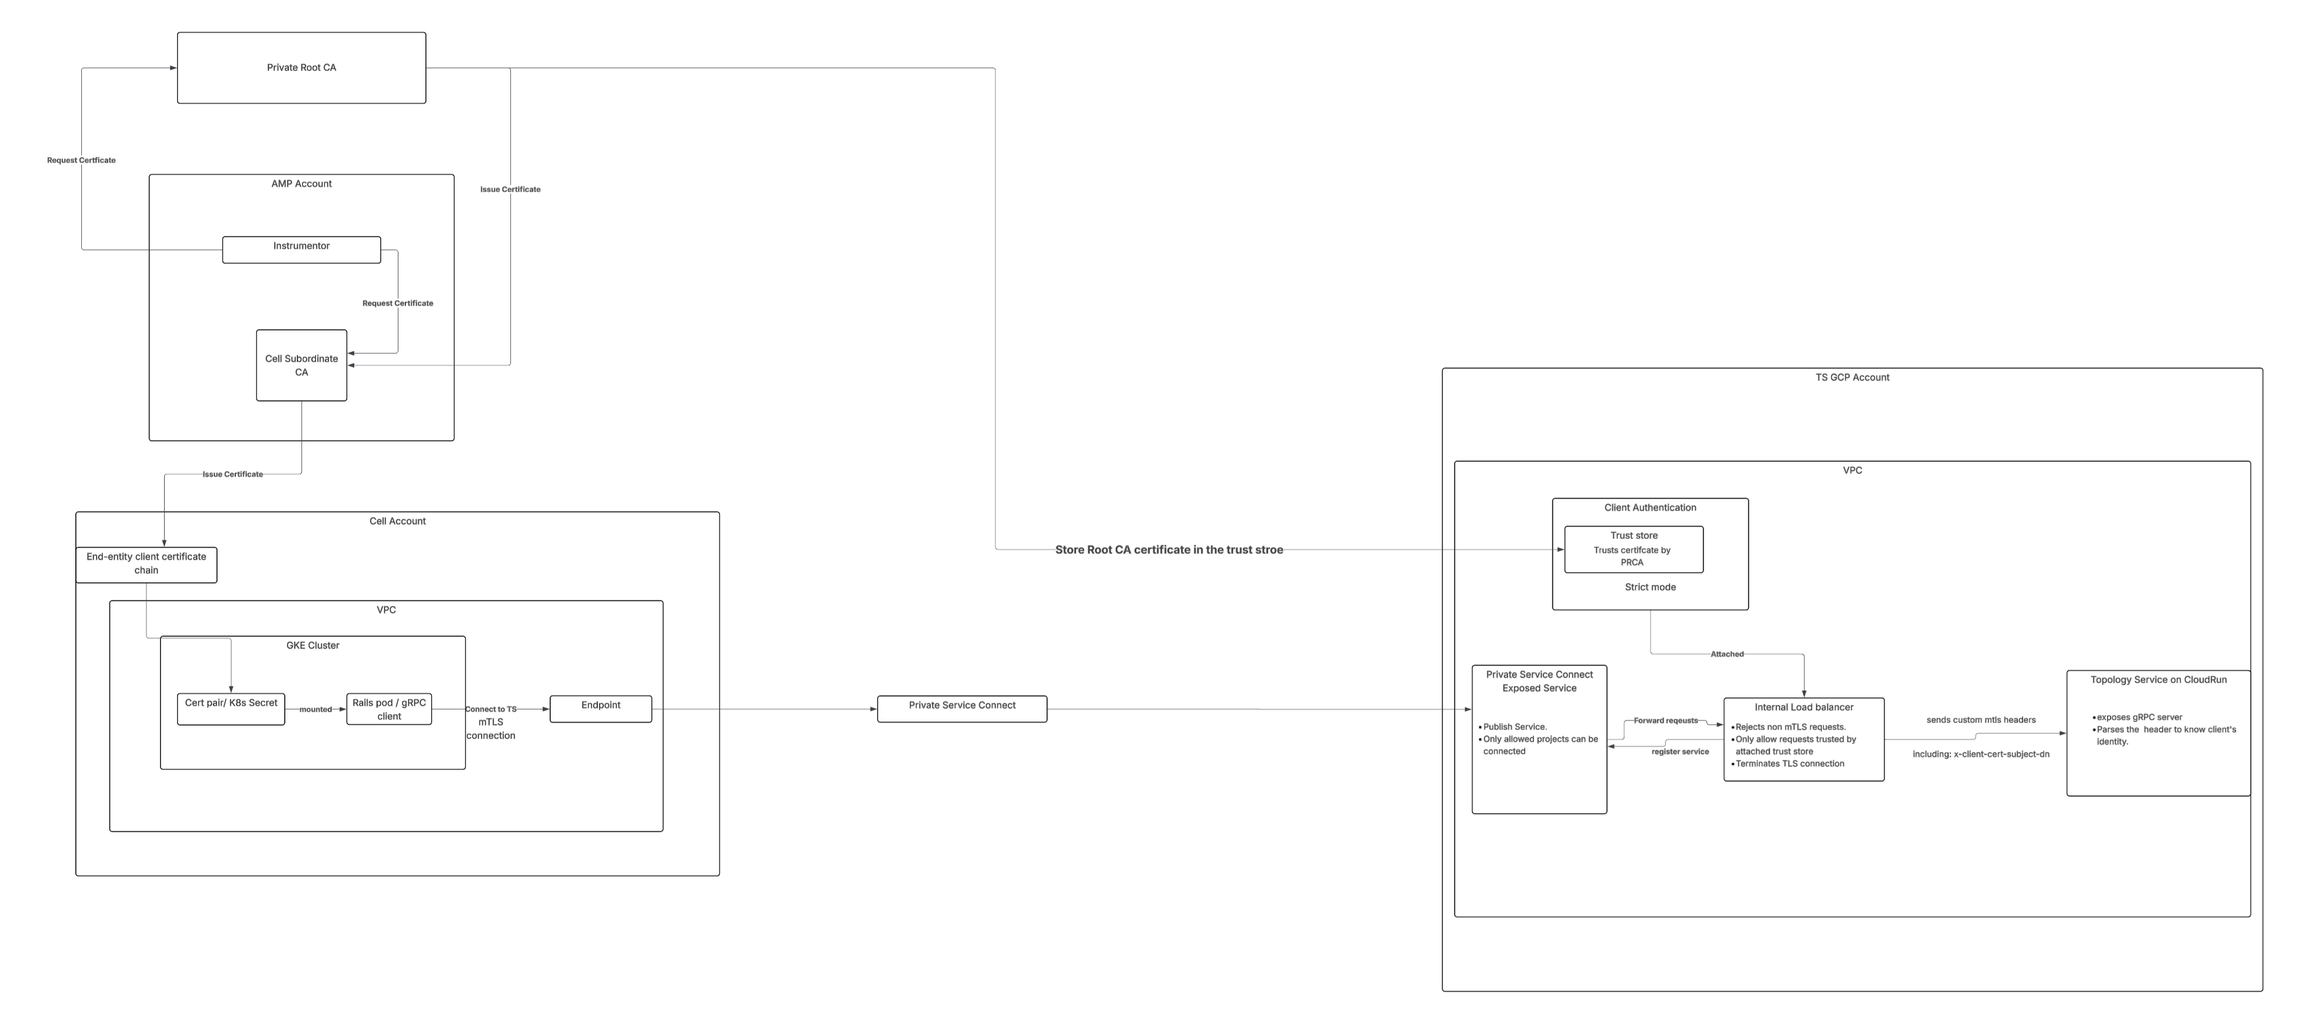
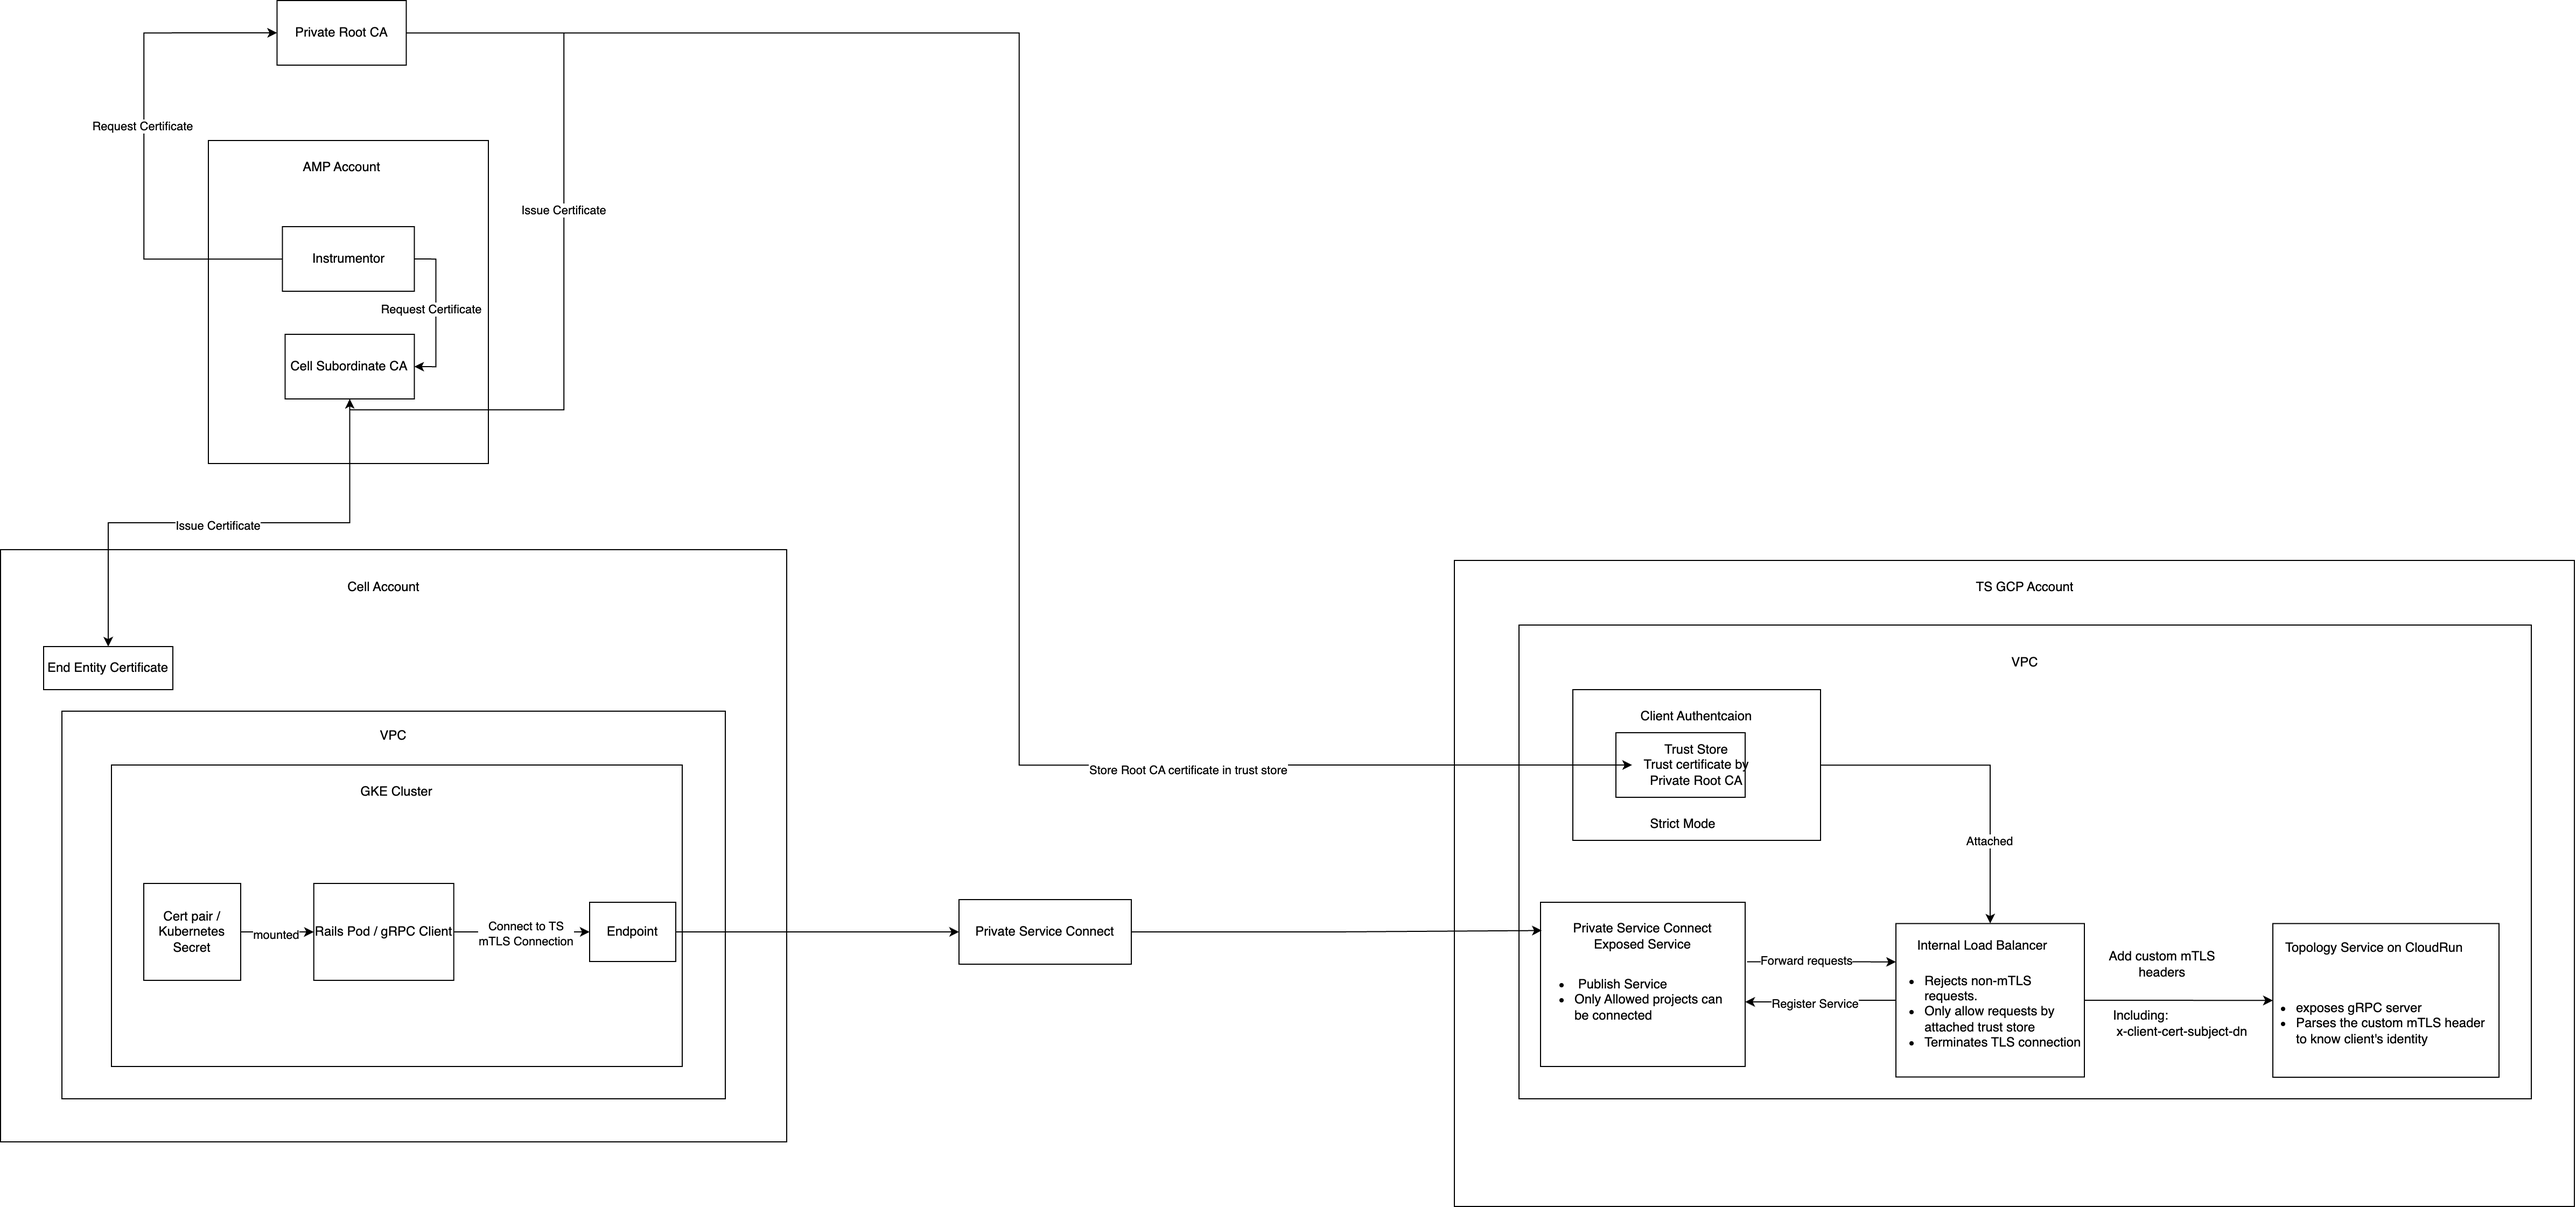
switch the image to be from draw.io, remove PSC abbr, update to sequenceDiagram, other clarification

diff --git a/content/handbook/engineering/architecture/design-documents/cells/mutual_authentication_between_cell_services.md b/content/handbook/engineering/architecture/design-documents/cells/mutual_authentication_between_cell_services.md
@@ -93,22 +93,20 @@ The external service host requires these changes:
 - Deploy the service behind an [Internal Load Balancer](https://cloud.google.com/load-balancing/docs/l7-internal) to ensure the service is not publicly accessible
 - Configure [mTLS Client Authentication on the Load Balancer](https://cloud.google.com/load-balancing/docs/mtls#validation-steps)
   - Upload the Private Root CA Certificate to the [Trust Config to enforce authenticated access only](https://cloud.google.com/load-balancing/docs/mtls#architecture)
-- Configure Private Service Connect (PSC) with the Load Balancer as a backend
-- Grant access permissions to client projects for connecting to the PSC endpoint
+- Configure [Private Service Connect] with the Load Balancer as a backend
+- Grant access permissions to client projects for connecting to the [Private Service Connect] endpoint
 
 #### Client/Consumer Configuration
 
 The service consuming the external API requires these changes:
 
-- Connect to the PSC endpoint using the VPC where the client service is deployed
+- Connect to the [Private Service Connect] endpoint using the VPC where the client service is deployed
 - Mount the certificate/key pair in the client application
-- Update client code to establish mTLS connections through the PSC endpoint
+- Update client code to establish mTLS connections through the [Private Service Connect] endpoint
 
 The diagram below illustrates the complete request flow between a Pod in a Cell and an external service, including the supporting infrastructure:
 
 ![diagram showing how a Pod in Cell would be communication with outside Cell service](/images/engineering/architecture/design-documents/cells/diagrams/mtls-request-flow.png)
-
-[`source`](https://lucid.app/lucidchart/d2aff2f6-639b-44f2-a06b-6fbed225d254/edit?viewport_loc=-290%2C-378%2C5311%2C2450%2C0_0&invitationId=inv_21038e17-917c-40a7-a423-c563ee0db347)
 
 For detailed implementation examples and proof-of-concept documentation of this architecture, refer to: https://gitlab.com/gitlab-org/gitlab/-/issues/468640.
 
@@ -186,7 +184,7 @@ Source: [mTLS POC client code](https://gitlab.com/gitlab-com/gl-infra/cells/mtls
 Authorization in our mTLS implementation occurs after successful authentication and relies on client identity information:
 
 - **Certificate-Based Identity**: After authenticating the client connection, the server extracts identity information from the client's certificate for authorization decisions.
-- **GCP LoadBalancer Headers**: We leverage [custom mTLS headers](https://cloud.google.com/load-balancing/docs/mtls#custom-mtls-headers) passed by GCP LoadBalancer to the backend service, which contain pre-extracted certificate information.
+- **GCP LoadBalancer Headers**: We leverage [custom mTLS headers](https://cloud.google.com/load-balancing/docs/https/custom-headers#mtls-variables) passed by GCP LoadBalancer to the backend service, which contain pre-extracted certificate information.
 - **Header Processing**: The server extracts these headers from incoming requests to determine the client's identity and permissions without needing to re-parse the certificate.
 - **Access Control Enforcement**: Based on the extracted identity (typically the Common Name), the server determines whether the client is authorized to access the requested resource.
 
@@ -244,31 +242,45 @@ Source: [mTLS Server Code](https://gitlab.com/gitlab-com/gl-infra/cells/mtls_poc
 
 ### DNS Resolution for mTLS Server Communication
 
-For mTLS to function correctly, clients must reach the server using the DNS name present in the server certificate's Subject Alternative Name (SAN) field. In our Cell architecture with Private Service Connect (PSC), this presents a unique challenge as each Cell may have a different IP address for the same service.
+For mTLS to function correctly, clients must reach the server using the DNS name present in the server certificate's Subject Alternative Name (SAN) field. In our Cell architecture with [Private Service Connect], this presents a unique challenge as each Cell may have a different IP address for the same service.
 
 #### Implementation Details
 
 To ensure consistent DNS resolution across all Cells while maintaining proper certificate validation, we will implement the following approach:
 
-````mermaid
-graph TD
-    A[Client in Cell] --> B[KubeDNS]
-    B --> C[CloudDNS Private Zone]
-    C --> D[Cell-specific PSC IP]
-    D --> E[Internal Load Balancer]
-    E --> F[Server Service]
-````
+```mermaid
+sequenceDiagram
+    participant Client as Client in Cell
+    participant KubeDNS as KubeDNS
+    participant CloudDNS as CloudDNS Private Zone
+    participant PSCIP as Cell-specific PSC IP
+    participant ILB as Internal Load Balancer
+    participant Service as Server Service
+
+    Note over PSCIP: PSC = Private Service Connect
+
+    Client->>KubeDNS: DNS lookup request
+    KubeDNS->>CloudDNS: Forward DNS query
+    CloudDNS->>KubeDNS: Return Cell-specific PSC IP
+    KubeDNS->>Client: Return PSC IP address
+    Client->>PSCIP: Connect to PSC IP
+    PSCIP->>ILB: Route to internal load balancer
+    ILB->>Service: Route to appropriate service instance
+    Service-->>ILB: Response
+    ILB-->>PSCIP: Response
+    PSCIP-->>Client: Response
+```
 
 1. **Private CloudDNS Zone per Cell**:
    - Each Cell project will have its own CloudDNS Private Zone
    - This zone will contain the same DNS name (e.g., `topology-service.gitlab.net`) for all Cells
-   - Each zone will resolve to the Cell-specific Private Service Connect IP
+   - Each zone will resolve to the Cell-specific Private Service Connect IP that is dynamically reserved from the Cell's VPC when the PSC endpoint is created
 
 2. **DNS Resolution Flow**:
    - Client services use the standard DNS name in their requests
    - KubeDNS forwards the request to CloudDNS Private Zone
-   - CloudDNS resolves the name to the Cell's specific PSC endpoint IP
-   - The request reaches the correct service through the PSC endpoint
+   - CloudDNS resolves the name to the Cell's specific [Private Service Connect] endpoint IP
+   - The request reaches the correct service through the [Private Service Connect] endpoint
 
 3. **Certificate Validation**:
    - The server certificate's SAN includes the standard DNS name
@@ -278,7 +290,7 @@ graph TD
 
 - **Consistent Naming**: All Cells use the same DNS name to access services, simplifying configuration
 - **Certificate Compatibility**: The DNS name matches the certificate's SAN, enabling proper mTLS validation
-- **Isolation**: Each Cell maintains its own DNS resolution to its specific PSC endpoint
+- **Isolation**: Each Cell maintains its own DNS resolution to its specific [Private Service Connect] endpoint
 - **Proven Solution**: This approach is already implemented and tested in our Production environment for Vault services
 - **Infrastructure as Code**: All DNS configurations are managed through Terraform
 
@@ -286,13 +298,13 @@ graph TD
 
 This implementation leverages our existing infrastructure patterns:
 
-1. **Service Exposure**: The internal Load Balancer is exposed through PSC via serviceAttachment
+1. **Service Exposure**: The internal Load Balancer is exposed through [Private Service Connect] via serviceAttachment
 2. **Access Control**: Projects are dynamically configured to connect to the service
 3. **DNS Configuration**: Private CloudDNS zones are created in each consumer project
 
 This approach works seamlessly with KubeDNS as the DNS provider for the cluster without requiring additional permissions or switching to CloudDNS as the cluster's DNS provider. This solution is already implemented and running in our Production environment for Vault services, with the following reference configurations:
 
-- [Service Exposure via PSC serviceAttachment](https://ops.gitlab.net/gitlab-com/gl-infra/config-mgmt/-/blob/addc5fbd9627fa2fc4a097be36e6563bfe310f44/environments/ops/private-service-connect.tf#L9)
+- [Service Exposure via Private Service Connect serviceAttachment](https://ops.gitlab.net/gitlab-com/gl-infra/config-mgmt/-/blob/addc5fbd9627fa2fc4a097be36e6563bfe310f44/environments/ops/private-service-connect.tf#L9)
 - [Project Authorization for service access](https://ops.gitlab.net/gitlab-com/gl-infra/config-mgmt/-/blob/addc5fbd9627fa2fc4a097be36e6563bfe310f44/environments/ops/private-service-connect.tf#L22)
 - [DNS Zone Configuration in consumer projects](https://ops.gitlab.net/gitlab-com/gl-infra/config-mgmt/-/blob/addc5fbd9627fa2fc4a097be36e6563bfe310f44/environments/gitlab-analysis/private_service_connect.tf#L54)
 
@@ -301,3 +313,5 @@ This approach works seamlessly with KubeDNS as the DNS provider for the cluster 
 | Client | Server |
 | ------ | ------ |
 |GitLab|Topology Service|
+
+[[Private Service Connect]]: https://cloud.google.com/vpc/docs/private-service-connect
